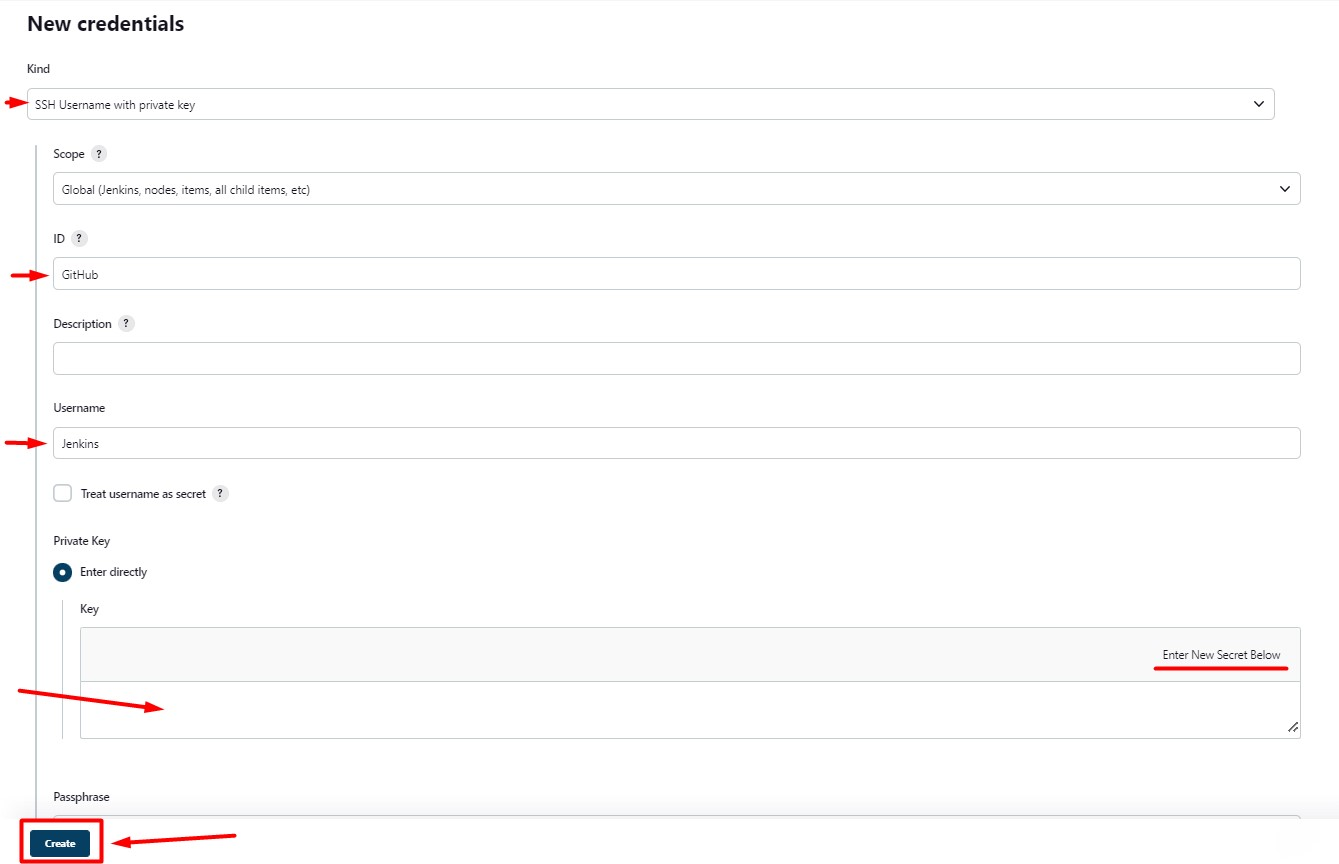
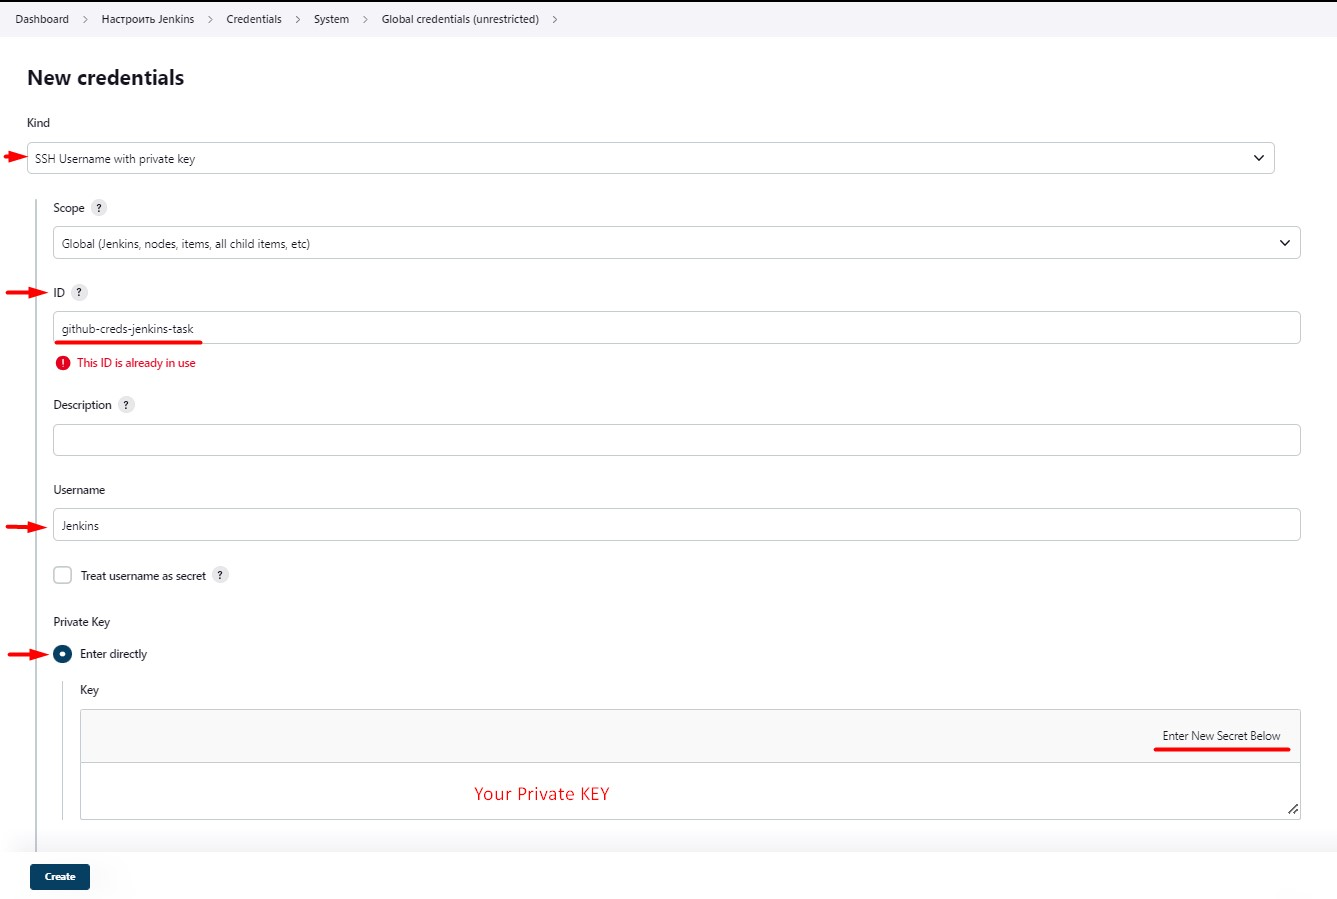
Upd: Readme file

diff --git a/CICD/Build-Deploy-Lambda/README.md b/CICD/Build-Deploy-Lambda/README.md
@@ -1,4 +1,4 @@
-# Jenkins - Setup and Configure
+# Jenkins - Build and Deploy Lambda
 
 ### _TASK: write pipeline_
 1. Create image (create script for run lambdas simple)
@@ -24,15 +24,61 @@
 3. Open your dashboard - **Manage Jenkins** - **Credentials** - **add credentials** <img src ='img/add_creds.jpg'>
 4. 
    - **Kind:** SSH Username with private key**
-   - **ID:** GitHub
+   - **ID:** github-creds-jenkins-task
    - **Username:**  Jenkins (or anything else that your entered in the **title** fiel of GitHub, when adding the Deploy key)
    - **Private Key:** your ssh private key. <img src ='img/new_creds.jpg'>
    
 
 
 
-### _Create Job: cdp-build-lambda_
+### _Create Job: cdp-lambda-build_
+Go to the **Dashboard** - **Create Item** - select **pipeline** - give name "cdp-lambda-build" and **Create**
+1. Add this url: <img src ='img/github_code.jpg'> to the **GitHub Project**: <img src ='img/pipeline_settings.jpg'>
+2. Next - **Delete outdated builds** and set at least 5.
+3. Select **Build Triggers** - **GitHub hook trigger for GITScm polling**: <img src ='img/GitHook_1.jpg'>
+4. Go to the **GitHub** - **Webhooks** - **add webhook**:
+   - **Payload URL:** <your_jenkins_master_public_dns>**:8080//github-webhook/**
+   - **Content type:** application/json
+   - **Secret:** empty field
+   - **Which events would you like to trigger this webhook?** - Just the push event. 
+   - Create! <img src ='img/GitHook_2.jpg'>
+5. After that, click **Recent Deliveries** - three dots - and click **Redeliver!** Must be green: <img src ='img/GitHook_3.jpg'>
+6. Back to the settings. Now **Pipeline**:
+   - **Definition:** Pipeline script from the SCM.
+   - **SCM:** Git
+   - **Repository URL:** Add this url: <img src ='img/github_code.jpg'>
+   - **Credentials:** seclect "Jenkins" (we created it earlier in the credentials) <img src ='img/pipeline_settings_2.jpg'>
+   - **Branches to build:** fill in the name of the branch where your pipeline will be located. */Jenkins-Setup-Configure
+   - **Script Path:** fill in the path, where your pipeline will be located. <img src ='img/script_path.jpg'> CICD/Build-Deploy-Lambda/Jenkinsfile_CI
+   - **Save!**
 
+
+
+
+### _Create Piupeline:_
+> Jenkinsfile is a text file that contains the definition of a Jenkins Pipeline and is checked into source control. 
+
+1. Go to our Repo "CICD/Lambda-Build-Deploy" and create pipeline **Jenkinsfile_CI**:
+   ```
+   pipeline {
+       agent {
+           label 'ec2-agent'
+       }
+       options {
+           buildDiscarder(logRotator(numToKeepStr: '5'))
+       }
+       stages {
+           stage('Checkout') {
+               steps{
+                   git branch: "Jenkins-Setup-Configure", credentialsId: 'github-creds-jenkins-task', url: 'https://github.com/RuslanSerdiuk/DevOps_Tasks_and_solutions.git'
+                   }
+           }
+       }
+   }
+   ```
+
+2. Check the work: commit + push to Repo! Go to **Dashboard** - select job **cdp-lambda-build**: <img src ='img/check_work.jpg'> <img src ='img/check_work_2.jpg'>
+   - As we can see, our trigger works and Jenkinsfile_CI too! :ok_hand:
 
 
 
